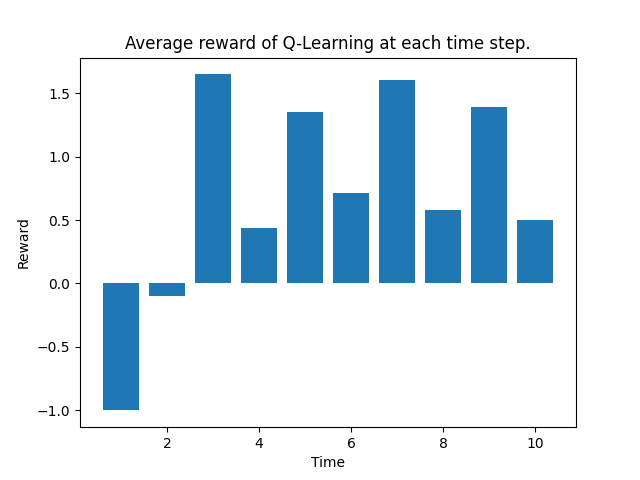
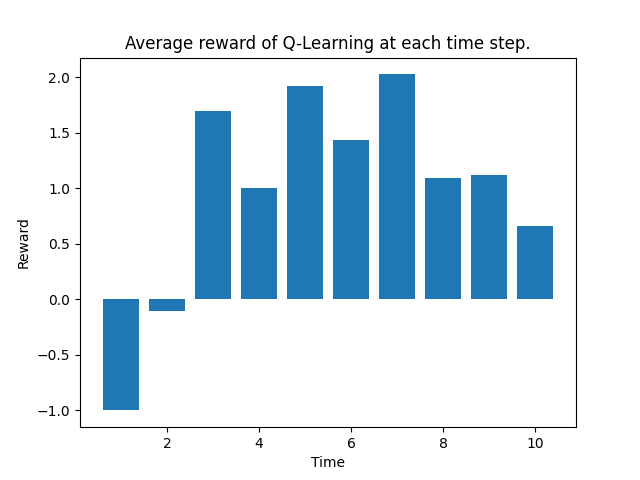
Implemented seeding in MC and TD training.

diff --git a/src/data_collection.py b/src/data_collection.py
@@ -55,8 +55,8 @@ def collect_algorithm_data(
         options: dict[str, Any] = None,
         seed: Optional[int] = None):
 
+    print(f"Started training {algorithm_name}. This may take a while...")
     for i, tick in enumerate(ticks):
-        print(f"Algorithm {algorithm_name} at tick {tick}")
         rng = np.random.default_rng(seed)
 
         eval_policy = policy_train_function(tick)
@@ -66,6 +66,7 @@ def collect_algorithm_data(
                                                              seed=int(rng.integers(low=0, high=1000000)))
             data[i, j] = sum(rewards)
 
+    print(f"Finished training {algorithm_name}.")
     return data.mean(axis=0)
 
 
@@ -119,7 +120,7 @@ if __name__ == "__main__":
     print("Creating Plots")
     print("Creating Reward over Time plots (0/7)")
     # Baseline
-    random_policy = Policy(board.observation_space, board.action_space)
+    random_policy = Policy(board.observation_space, board.action_space, seed=0)
 
     plot_rewards_over_time(board, random_policy, n_episodes=1000,
                            plot_save_path="../plots/r_over_time/random_policy_r_over_time.png", options=options,
@@ -128,7 +129,7 @@ if __name__ == "__main__":
 
     # Dynamic Programming
     value_iteration = DynamicProgrammingPolicy(
-        board, algorithm="ValueIteration", discount=0.9, stopping_criterion=0.00000001
+        board, algorithm="ValueIteration", discount=0.9, stopping_criterion=0.00000001, seed=0
     )
 
     plot_rewards_over_time(board, value_iteration, n_episodes=1000,
@@ -137,7 +138,7 @@ if __name__ == "__main__":
     print("Finished plotting value iteration (2/7)")
 
     policy_iteration = DynamicProgrammingPolicy(
-        board, algorithm="PolicyIteration", discount=0.9, stopping_criterion=0.00000001
+        board, algorithm="PolicyIteration", discount=0.9, stopping_criterion=0.00000001, seed=0
     )
 
     plot_rewards_over_time(board, policy_iteration, n_episodes=1000,
@@ -149,7 +150,7 @@ if __name__ == "__main__":
     # Monte Carlo goes here
     monte_carlo = MonteCarloPolicy(
         board.observation_space, board.action_space, algorithm="FirstVisitEpsilonGreedy", env=board, n_episodes=100,
-        gamma=0.9, epsilon=0.3
+        gamma=0.9, epsilon=0.3, seed=0
        )
 
     plot_rewards_over_time(board, monte_carlo, n_episodes=1000,
@@ -160,7 +161,7 @@ if __name__ == "__main__":
 
     # Temporal Difference Learning
     sarsa = TemporalDifferencePolicy(board.observation_space, board.action_space, algorithm="SARSA", env=board,
-                                     n_episodes=100, alpha=0.5, gamma=0.9)
+                                     n_episodes=100, alpha=0.5, gamma=0.9, seed=0)
 
     plot_rewards_over_time(board, sarsa, n_episodes=1000,
                            plot_save_path="../plots/r_over_time/sarsa_r_over_time.png", options=options,
@@ -169,7 +170,7 @@ if __name__ == "__main__":
     print("Finished plotting SARSA (5/7)")
 
     q_learning = TemporalDifferencePolicy(board.observation_space, board.action_space, algorithm="QLearning", env=board,
-                                          n_episodes=100, alpha=0.5, gamma=0.9)
+                                          n_episodes=100, alpha=0.5, gamma=0.9, seed=0)
 
     plot_rewards_over_time(board, q_learning, n_episodes=1000,
                            plot_save_path="../plots/r_over_time/q_learning_r_over_time.png", options=options,
@@ -193,9 +194,9 @@ if __name__ == "__main__":
     print("_" * 100, "\n")
     print("Making comparison plot of MC, SARSA, and Q-Learning")
     # Comparison plots
-    mc_comparison_policy = MonteCarloPolicy(board.observation_space, board.action_space)
-    q_learning_comparison_policy = TemporalDifferencePolicy(board.observation_space, board.action_space)
-    sarsa_comparison_policy = TemporalDifferencePolicy(board.observation_space, board.action_space)
+    mc_comparison_policy = MonteCarloPolicy(board.observation_space, board.action_space, seed=0)
+    q_learning_comparison_policy = TemporalDifferencePolicy(board.observation_space, board.action_space, seed=0)
+    sarsa_comparison_policy = TemporalDifferencePolicy(board.observation_space, board.action_space, seed=0)
 
     policy_funcs = (
         lambda n_episodes: mc_comparison_policy.first_visit_monte_carlo_control(board, n_episodes=n_episodes, gamma=0.9,

diff --git a/src/temporal_difference_policy.py b/src/temporal_difference_policy.py
@@ -30,6 +30,7 @@ class TemporalDifferencePolicy(Policy):
         obs_space: gym.Space,
         act_space: gym.Space,
         *,
+        seed: Optional[int] = None,
         algorithm: Optional[TemporalDifferenceAlgorithms | str] = None,
         **kwargs,
     ):
@@ -41,7 +42,7 @@ class TemporalDifferencePolicy(Policy):
         @param algorithm: Optional, if given, calls specified algorithm with keyword arguments specified.
         @param kwargs: Arguments used in the algorithm call.
         """
-        super().__init__(obs_space, act_space)
+        super().__init__(obs_space, act_space, seed=seed)
 
         self.__q = {}
         self.__reset()
@@ -100,7 +101,7 @@ class TemporalDifferencePolicy(Policy):
             env.unwrapped.render_mode = "None"
 
         for episode_n in range(n_episodes):
-            obs, _ = env.reset()
+            obs, _ = env.reset(seed=int(self._rng.integers(0, 1000000)))
             obs = self._obs_to_tuple(obs)
 
             action = policy_func(self._action_to_value(self.__q, obs))
@@ -167,7 +168,7 @@ class TemporalDifferencePolicy(Policy):
             env.unwrapped.render_mode = "None"
 
         for episode_n in range(n_episodes):
-            obs, _ = env.reset()
+            obs, _ = env.reset(seed=int(self._rng.integers(0, 1000000)))
             obs = self._obs_to_tuple(obs)
 
             terminal, truncated = False, False

diff --git a/src/monte_carlo_policy.py b/src/monte_carlo_policy.py
@@ -22,6 +22,8 @@ class MonteCarloPolicy(Policy):
         obs_space: ObsType,
         act_space: ActType,
         policy: dict = None,
+        *,
+        seed: Optional[int] = None,
         algorithm: Optional[MonteCarloAlgorithms | str] = None,
         **kwargs,
     ):
@@ -32,7 +34,7 @@ class MonteCarloPolicy(Policy):
         @param act_space: The action space of the environment this policy will describe.
         @param policy: Optional, the starting policy.
         """
-        super().__init__(obs_space, act_space, policy=policy)
+        super().__init__(obs_space, act_space, policy=policy, seed=seed)
         self.__all_q, self.__returns = {}, {}
         self.__reset()
 
@@ -76,7 +78,7 @@ class MonteCarloPolicy(Policy):
             env.unwrapped.render_mode = "None"
 
         for i in range(n_episodes):
-            obs, _ = env.reset()
+            obs, _ = env.reset(seed=int(self._rng.integers(0, 1000000)))
             obs = self._obs_to_tuple(obs)
             episode = []
 

diff --git a/src/board.py b/src/board.py
@@ -260,7 +260,7 @@ class Board(gym.Env):
 
             # Make sure board doesn't randomise to a terminal state.
             if np.array(self._target_position == self._cat_position).all():
-                return self.reset(seed=seed, options=options)
+                return self.reset(seed=int(self.rng.integers(0, 1000000)), options=options)
 
         self[self._cat_position].holds_agent = True
         self[self._target_position].holds_target = True
